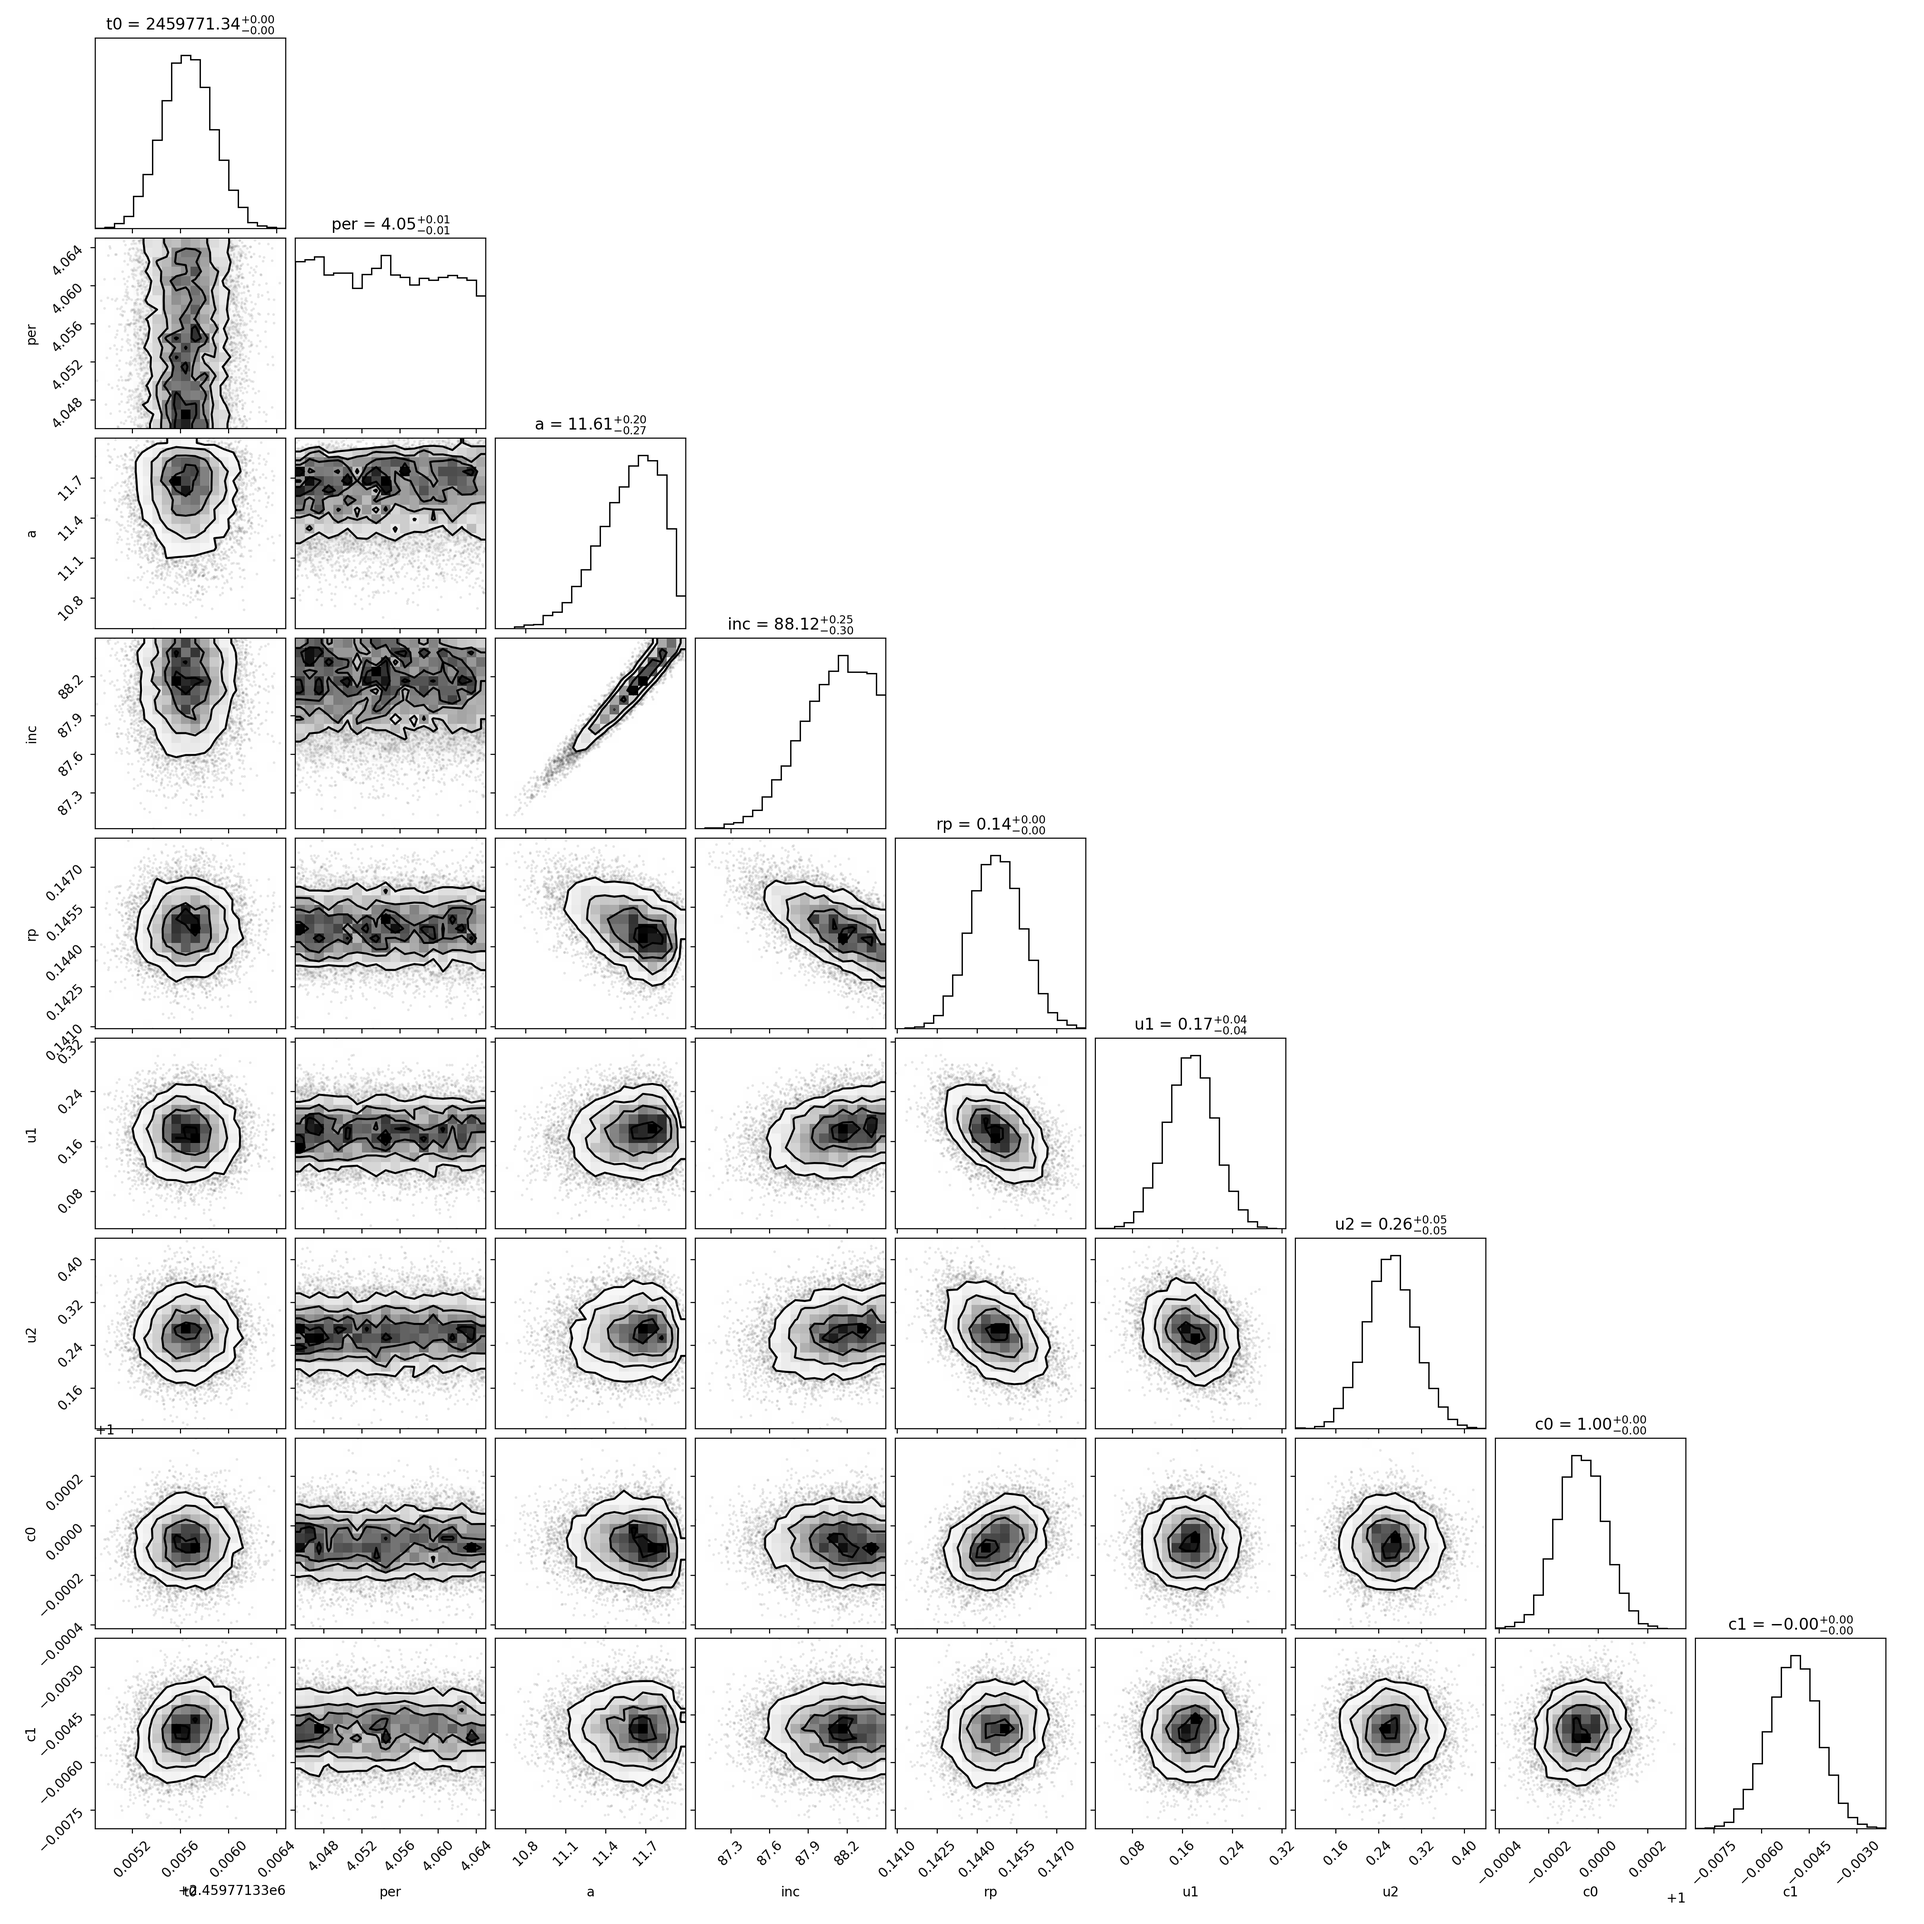
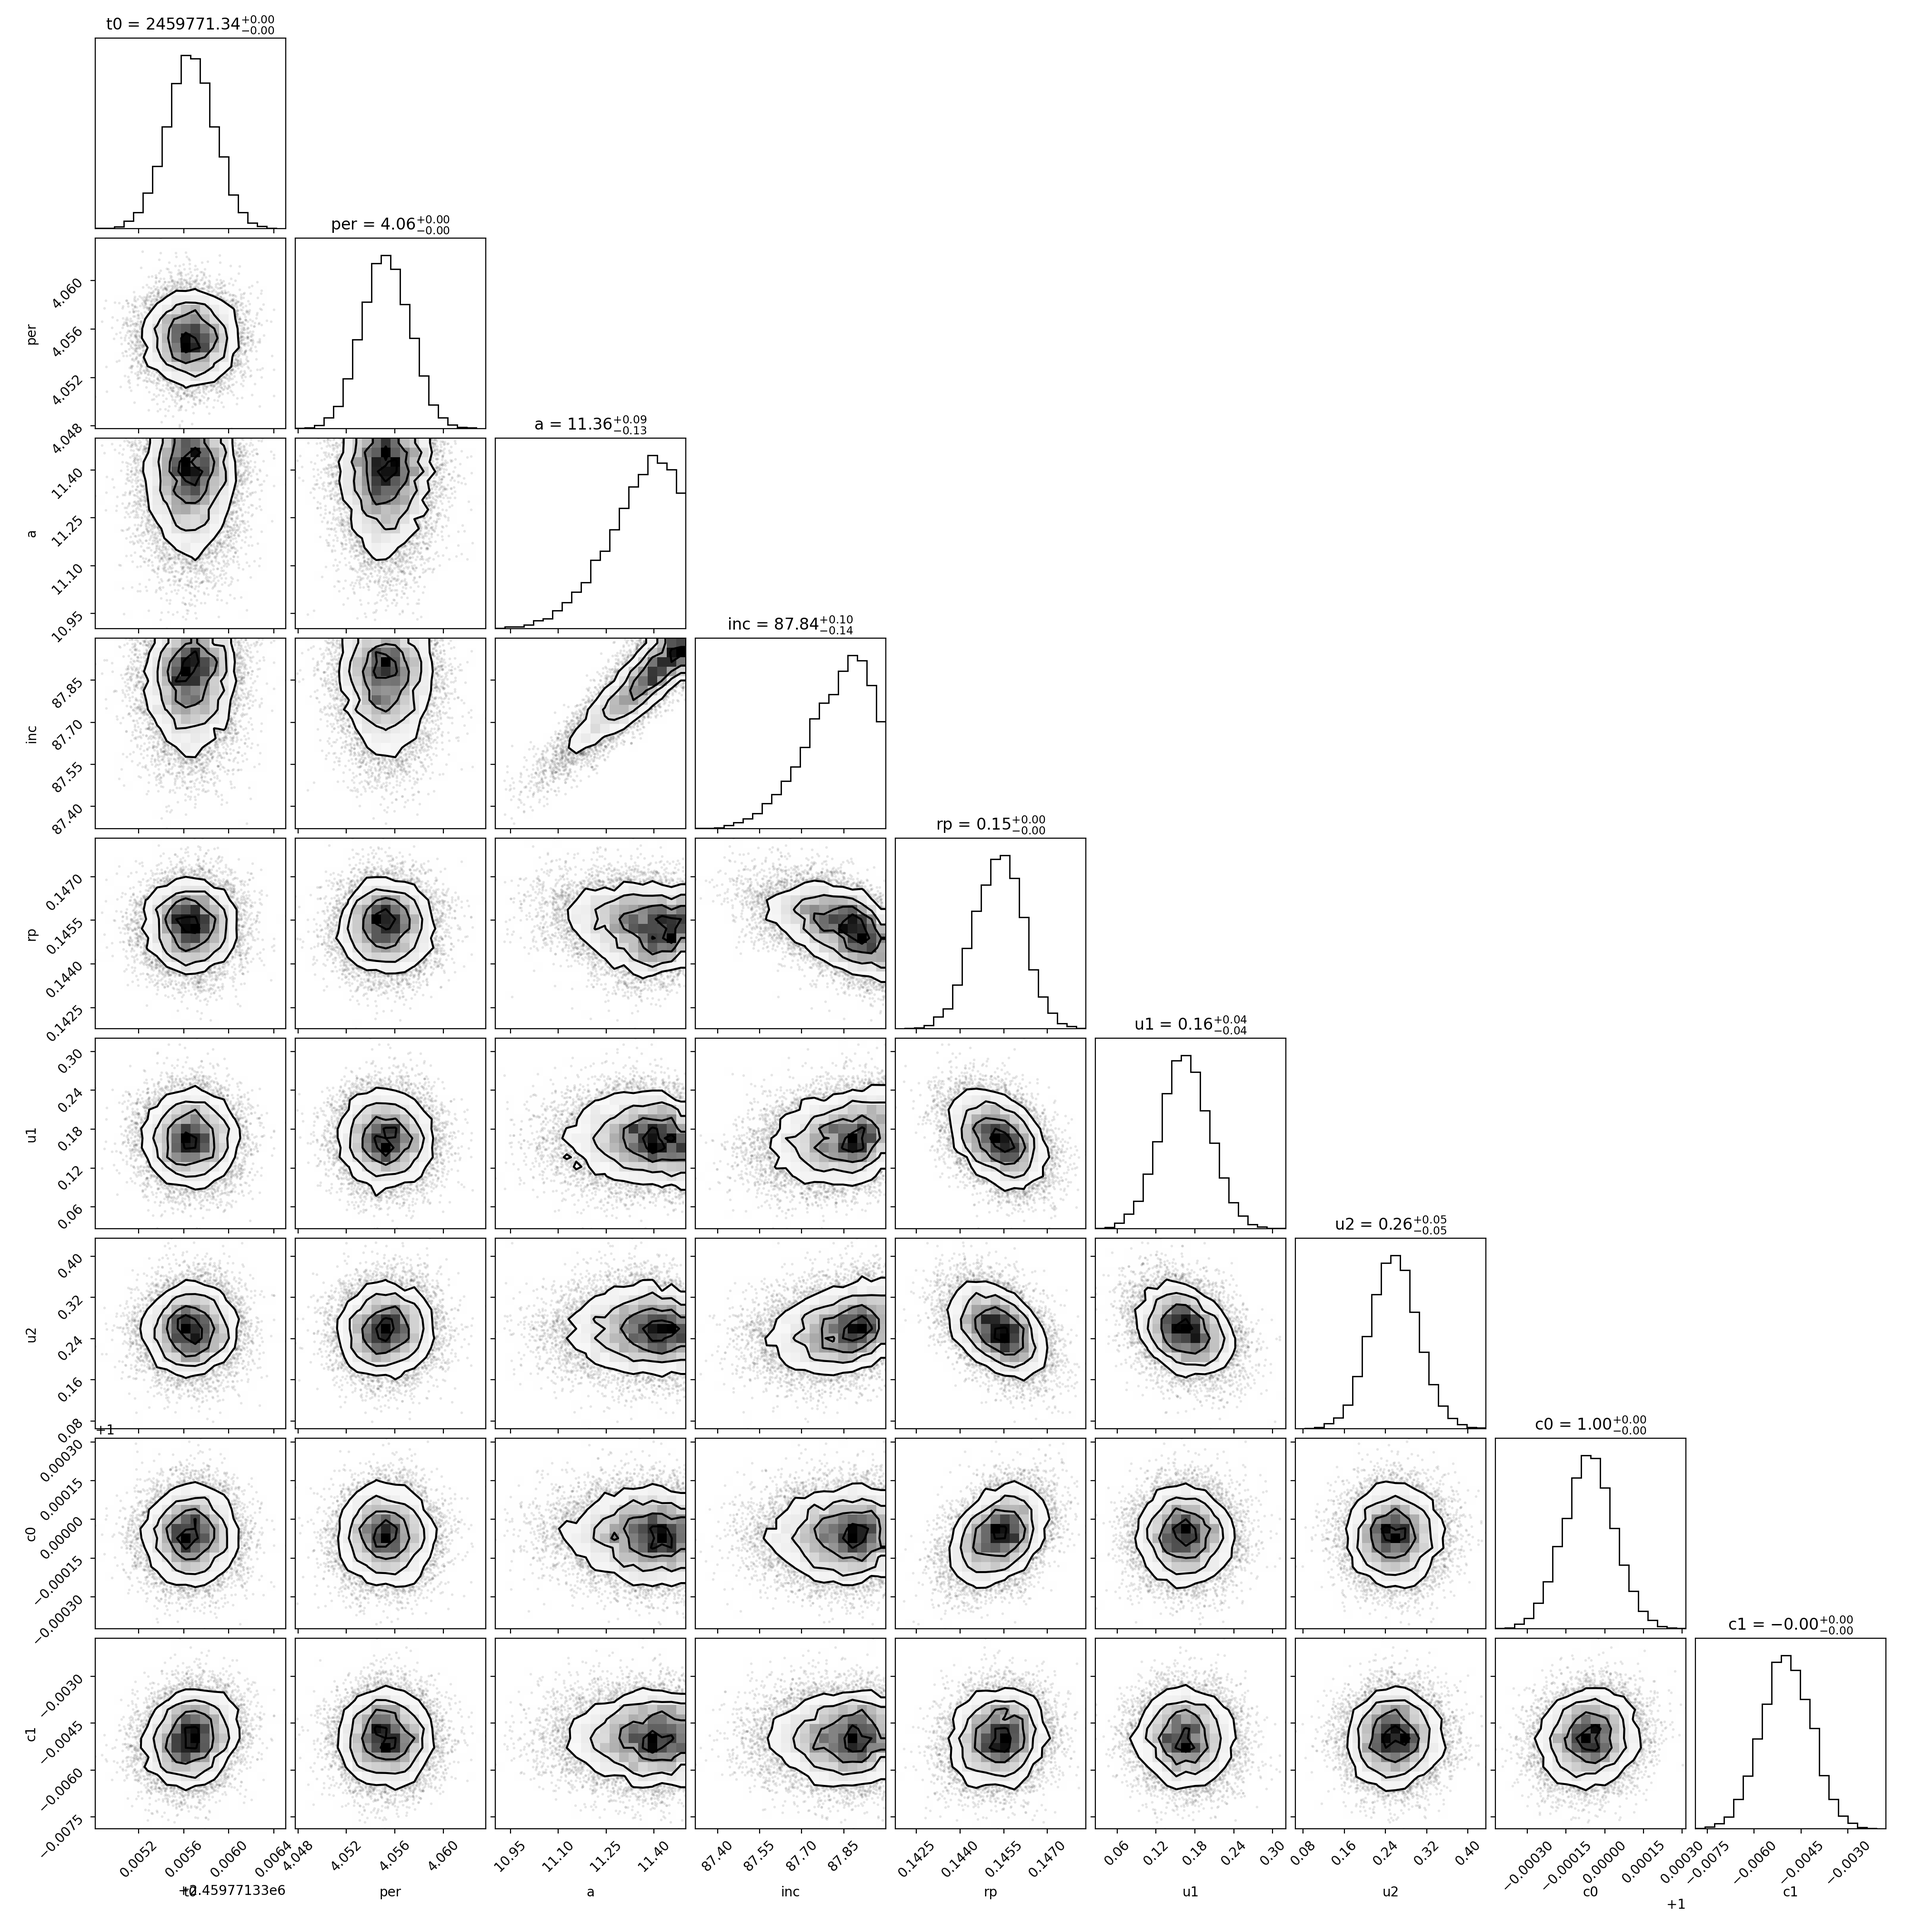
Improved the mcmc for parameter estimation

diff --git a/src/wasp39/main.py b/src/wasp39/main.py
@@ -88,10 +88,19 @@ def run_white_light(ctx: dict, t, flux, flux_err, tag: str) -> None:
 
 
 def Step4(ctx: dict) -> None:
-    print("STEP 4 — Run white-light MCMC (unbinned + binned, Gaussian LD priors)")
+    mode = ctx.get("white_light_mode", "both")  # "unbinned", "binned", or "both"
+    propagate = ctx.get("white_light_propagate", None)  # "unbinned" or "binned" (optional)
+
+    print(f"STEP 4 — Run white-light MCMC (mode={mode})")
 
     u1_mu, u2_mu = 0.25, 0.30   # replace later with theory values
     u_sigma = 0.05              # conservative, but effective
+
+    per_mu = float(ctx["cfg_init"].per)
+    per_sigma = 0.002  # days (~2.9 minutes). adjust if needed
+
+    a_mu = float(ctx["cfg_init"].a)
+    a_sigma = 0.20  # tune if needed
 
     def run_white_light(t, flux, flux_err, tag):
         chain, labels, best_params, best_model = fit_white_light_mcmc(
@@ -100,13 +109,17 @@ def Step4(ctx: dict) -> None:
             flux_err=flux_err,
             cfg_init=ctx["cfg_init"],
             rp_init=ctx["rp_init"],
-            nwalkers=50,
-            nsteps_burn=2000,
-            nsteps_prod=2000,
+            nwalkers=64,
+            nsteps_burn=3000,
+            nsteps_prod=8000,
             thin=15,
             progress=True,
             u_gauss_mu=(u1_mu, u2_mu),
             u_gauss_sigma=u_sigma,
+            per_gauss_mu=per_mu,
+            per_gauss_sigma=per_sigma,
+            a_gauss_mu=a_mu,
+            a_gauss_sigma=a_sigma,
         )
 
         save_corner(
@@ -120,8 +133,6 @@ def Step4(ctx: dict) -> None:
             f"Best-fit + residuals ({tag})"
         )
 
-
-        # Save best-fit so Step5/6 can run without rerunning MCMC
         out_npz = os.path.join(ctx["out"], f"white_light_bestfit_{tag}.npz")
         np.savez(
             out_npz,
@@ -132,21 +143,35 @@ def Step4(ctx: dict) -> None:
         )
         print(f"Saved white-light best-fit ({tag}) to: {out_npz}")
 
-
         return best_params
 
-    # --- unbinned ---
-    best_unbinned = run_white_light(
-        ctx["bjd"], ctx["white"], ctx["white_e"], "unbinned"
-    )
+    results = {}
 
-    # --- binned ---
-    best_binned = run_white_light(
-        ctx["bjd_b"], ctx["white_b"], ctx["white_be"], "binned"
-    )
+    if mode in ("unbinned", "both"):
+        results["unbinned"] = run_white_light(
+            ctx["bjd"], ctx["white"], ctx["white_e"], "unbinned"
+        )
 
-    # Choose which solution to propagate (recommend: unbinned)
-    best = best_unbinned
+    if mode in ("binned", "both"):
+        results["binned"] = run_white_light(
+            ctx["bjd_b"], ctx["white_b"], ctx["white_be"], "binned"
+        )
+
+    if not results:
+        raise ValueError(f"Invalid white_light_mode={mode!r}. Use 'unbinned', 'binned', or 'both'.")
+
+    # Decide which solution to propagate
+    if propagate is None:
+        # sensible default: if only one ran, use it; if both ran, default to unbinned
+        propagate = next(iter(results.keys())) if len(results) == 1 else "unbinned"
+
+    if propagate not in results:
+        raise ValueError(
+            f"white_light_propagate={propagate!r} not available (ran: {list(results.keys())})."
+        )
+
+    best = results[propagate]
+    ctx["white_light_tag"] = propagate  # useful for later steps if you want
 
     t0, per, a, inc, rp, u1, u2, *_ = best
     ctx["cfg"] = TransitConfig(
@@ -158,6 +183,8 @@ def Step4(ctx: dict) -> None:
         limb_dark="quadratic",
     )
     ctx["rp_fit"] = float(rp)
+
+    print(f"Propagating white-light solution: {propagate}")
 
 
 def Step5(ctx: dict, *, n_wl_bins: int, spec_time_bin: int, white_tag: str = "unbinned") -> None:
@@ -264,11 +291,9 @@ def Step6(ctx: dict, *, white_tag: str = "binned") -> None:
         "H2": 0.94,
         "He": 0.05,
         # trace gases (tune these)
-        "CH4": 3e-4,
-        "CO": 2e-4,
+        "CH4": 3e-2,
         "CO2": 1e-4,
         "H2O": 2e-3,
-        "NH3": 1e-4,
     }
 
     abund = build_custom_abundances(
@@ -481,6 +506,7 @@ def main() -> None:
 
 
     ctx: dict = {}
+    ctx["white_light_mode"] = "binned"
     Step = {
         0: lambda: Step0(ctx),
         1: lambda: Step1(ctx),

diff --git a/src/wasp39/mcmc.py b/src/wasp39/mcmc.py
@@ -115,9 +115,9 @@ def fit_white_light_mcmc(
     progress: bool = True,
     # Priors (loosely following your Proj_WASP.py)
     t0_width: float = 0.1,
-    per_bounds: Tuple[float, float] = (4.045, 4.065),
-    a_bounds: Tuple[float, float] = (10.5, 12.0),
-    inc_bounds: Tuple[float, float] = (86.5, 88.5),
+    per_bounds: Tuple[float, float] = (4.04,4.180),
+    a_bounds: Tuple[float, float] = (10.90, 11.5),
+    inc_bounds: Tuple[float, float] = (86.9, 88),
     rp_bounds: Tuple[float, float] = (0.13, 0.16),
     u_bounds: Tuple[float, float] = (-1.0, 1.0),
     c0_bounds: Tuple[float, float] = (0.9, 1.1),
@@ -125,6 +125,12 @@ def fit_white_light_mcmc(
     # Optional Gaussian priors on limb darkening (u1,u2)
     u_gauss_mu: Optional[Tuple[float, float]] = None,
     u_gauss_sigma: Union[float, Tuple[float, float]] = 0.05,
+    # Optional Gaussian priors on per and a
+    per_gauss_mu: Optional[float] = None,
+    per_gauss_sigma: Optional[float] = None,
+    a_gauss_mu: Optional[float] = None,
+    a_gauss_sigma: Optional[float] = None,
+
 ) -> Tuple[np.ndarray, list, np.ndarray, np.ndarray]:
     """
     White-light MCMC fit: transit (BATMAN) * linear baseline.
@@ -164,6 +170,12 @@ def fit_white_light_mcmc(
         0.0,   # c1
     ], dtype=float)
 
+
+    def gauss_lnprior(x: float, mu: float, sigma: float) -> float:
+        if sigma <= 0:
+            return -np.inf
+        return -0.5 * ((x - mu) / sigma) ** 2 - np.log(sigma * np.sqrt(2.0 * np.pi))
+
     # --- log prior (flat bounds) ---
     def log_prior(p: np.ndarray) -> float:
         t0, per, a, inc, rp, u1, u2, c0, c1 = p
@@ -179,6 +191,18 @@ def fit_white_light_mcmc(
         if not (c1_bounds[0] < c1 < c1_bounds[1]):                 return -np.inf
 
         lp = 0.0
+
+        # Optional Gaussian prior on period
+        if per_gauss_mu is not None:
+            if per_gauss_sigma is None:
+                return -np.inf
+            lp += gauss_lnprior(float(per), float(per_gauss_mu), float(per_gauss_sigma))
+
+        # Optional Gaussian prior on a (a/R*)
+        if a_gauss_mu is not None:
+            if a_gauss_sigma is None:
+                return -np.inf
+            lp += gauss_lnprior(float(a), float(a_gauss_mu), float(a_gauss_sigma))
 
         # Optional Gaussian priors on limb darkening
         if u_gauss_mu is not None:
@@ -226,7 +250,31 @@ def fit_white_light_mcmc(
         return lp + log_likelihood_full(p)
 
     ndim = len(p_init)
-    pos0 = p_init + 1e-4 * np.random.randn(nwalkers, ndim)
+    # Better initialization scales per parameter (helps exploration, esp. for per)
+    scales = np.array([
+        0.005,  # t0 (days)
+        0.02 * p_init[1],  # per (days) ~2% scatter
+        0.05,  # a
+        0.05,  # inc (deg)
+        0.002,  # rp
+        0.02,  # u1
+        0.02,  # u2
+        0.01,  # c0
+        1e-4,  # c1
+    ], dtype=float)
+
+    pos0 = p_init + scales * np.random.randn(nwalkers, ndim)
+
+    # Clip into hard bounds so you don't start at -inf
+    pos0[:, 0] = np.clip(pos0[:, 0], p_init[0] - t0_width, p_init[0] + t0_width)
+    pos0[:, 1] = np.clip(pos0[:, 1], per_bounds[0], per_bounds[1])
+    pos0[:, 2] = np.clip(pos0[:, 2], a_bounds[0], a_bounds[1])
+    pos0[:, 3] = np.clip(pos0[:, 3], inc_bounds[0], inc_bounds[1])
+    pos0[:, 4] = np.clip(pos0[:, 4], rp_bounds[0], rp_bounds[1])
+    pos0[:, 5] = np.clip(pos0[:, 5], u_bounds[0], u_bounds[1])
+    pos0[:, 6] = np.clip(pos0[:, 6], u_bounds[0], u_bounds[1])
+    pos0[:, 7] = np.clip(pos0[:, 7], c0_bounds[0], c0_bounds[1])
+    pos0[:, 8] = np.clip(pos0[:, 8], c1_bounds[0], c1_bounds[1])
 
     sampler = emcee.EnsembleSampler(nwalkers, ndim, logprob)
     sampler.run_mcmc(pos0, nsteps_burn, progress=progress)

diff --git a/src/run.py b/src/run.py
@@ -7,7 +7,9 @@ def main():
     sys.argv = [
         "python -m wasp39.main",
         #"--steps", "0,1,2,3,4",
-        "--steps", "6,7",
+        #"--steps", "0,1,2,3",
+        #"--steps", "0,1,2"
+        "--steps", "0,1,2,3,4"
     ]
 
     from wasp39.main import main as pipeline_main
